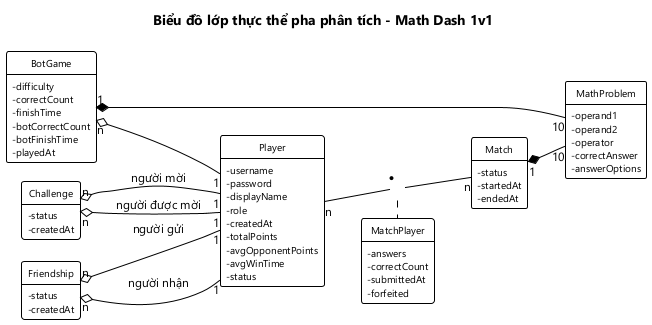
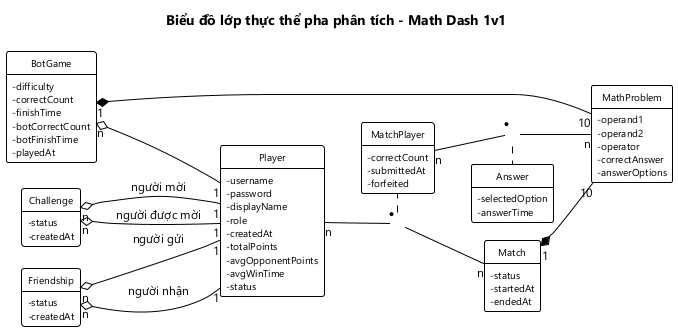
docs(M1-01,M1-02,M1-03): bản 7: giao diện chính 2 nút, giao diện chơi online, thực thể Answer, bảng tblAnswer

diff --git a/docs/chung/01-pham-vi-use-case.md b/docs/chung/01-pham-vi-use-case.md
@@ -11,11 +11,11 @@
 | 3 | Server | Máy chủ duy nhất của hệ thống. Server lưu toàn bộ thông tin tài khoản và trận đấu, sinh đề bài và làm trọng tài cho các trận đối kháng |
 | 4 | Câu hỏi | Một phép tính gồm 2 toán hạng và 1 toán tử (+, −, ×), kèm 4 phương án trả lời, trong đó có đúng 1 phương án đúng. Người chơi chọn 1 trong 4 phương án |
 | 5 | Đề bài | Danh sách N = 10 câu hỏi. Trong một trận đối kháng, server sinh một đề và gửi cùng đề đó cho cả 2 người chơi |
-| 6 | Danh sách người chơi online | Danh sách các người chơi đang mở ứng dụng và đã đăng nhập. Mỗi dòng có tên, tổng điểm, trạng thái |
+| 6 | Danh sách người chơi online | Danh sách các người chơi đang ở giao diện chơi online. Mỗi dòng có tên, tổng điểm, trạng thái. Người chơi rời giao diện chơi online thì không còn trong danh sách và không nhận được lời thách đấu |
 | 7 | Trạng thái | Rỗi: người chơi không chơi với ai. Bận: người chơi đang trong một trận đối kháng. Chỉ thách đấu được người đang rỗi |
 | 8 | Lời mời thách đấu | Lời mời người chơi gửi tới một người chơi khác đang rỗi bằng cách bấm vào tên người đó. Người được mời chọn Đồng ý hoặc Từ chối |
 | 9 | Trận đấu | Một ván đối kháng giữa 2 người chơi trên cùng một đề bài, thời gian tối đa 60 giây |
-| 10 | Bài làm | Các phương án người chơi đã chọn cho 10 câu hỏi. Bài làm được nộp bằng nút Nộp bài. Hết 60 giây mà chưa nộp thì hệ thống tự nộp, câu chưa chọn tính là sai |
+| 10 | Bài làm | Phương án người chơi đã chọn cho từng câu trong 10 câu hỏi, kèm thời gian làm câu: khoảng thời gian từ lúc câu hiện ra tới lúc người chơi chọn phương án. Người chơi làm lần lượt từng câu, chọn xong một câu thì sang câu sau; làm xong 10 câu thì nộp bài bằng nút Nộp bài. Hết 60 giây mà chưa nộp thì hệ thống tự nộp, câu chưa chọn là câu bỏ trống và tính là sai |
 | 11 | Thời gian làm bài | Khoảng thời gian từ lúc trận bắt đầu đến lúc server nhận được bài làm của người chơi |
 | 12 | Kết quả trận | Thắng, thua hoặc hòa, do server xác định:<br>- Người bỏ trận thua.<br>- Người đúng hết 10 câu thắng người có ít nhất 1 câu sai.<br>- Cả 2 đúng hết thì ai có thời gian làm bài ngắn hơn thắng; bằng nhau thì hòa.<br>- Cả 2 đều có ít nhất 1 câu sai thì hòa |
 | 13 | Điểm trận | Thắng được 1 điểm, hòa 0,5 điểm, thua 0 điểm |
@@ -42,11 +42,11 @@ Hệ thống gồm một server và nhiều client. Server lưu toàn bộ thôn
 Phạm vi:
 - Người chơi phải có tài khoản và đăng nhập trước khi dùng các chức năng khác.
 - **Chơi online:** thách đấu và đấu đối kháng.
-  - Sau khi đăng nhập, người chơi thấy danh sách người chơi đang online và thách đấu một người đang rỗi.
-  - Hai người làm cùng một đề do server sinh ra; server chấm bài và cộng điểm.
+  - Người chơi vào giao diện chơi online, thấy danh sách người chơi đang online và thách đấu một người đang rỗi. Người chơi chỉ online khi đang ở giao diện này.
+  - Hai người làm cùng một đề do server sinh ra, lần lượt từng câu; server chấm bài, lưu bài làm từng câu và cộng điểm.
   - Sau mỗi trận, hai người chọn chơi tiếp hoặc dừng.
 - **Chơi với máy:** người chơi chọn độ khó của máy rồi thi đấu theo cùng luật. Chức năng này chạy được khi không có mạng.
-- **Xem lịch sử đấu:** người chơi xem tỉ lệ thắng / hòa / thua và danh sách các trận chơi online mình đã đấu, xem lại đề và kết quả của từng trận, và xem bảng xếp hạng của mọi người chơi trong hệ thống.
+- **Xem lịch sử đấu:** người chơi xem tỉ lệ thắng / hòa / thua và danh sách các trận chơi online mình đã đấu, xem lại đề, kết quả và bài làm từng câu của 2 người trong từng trận, và xem bảng xếp hạng của mọi người chơi trong hệ thống.
 - **Quản lý bạn bè:** người chơi gửi lời mời kết bạn, đồng ý hoặc từ chối lời mời kết bạn, xem danh sách bạn bè kèm trạng thái online, hủy kết bạn.
 - **Quản lý thông tin người chơi:** quản trị viên xem danh sách người chơi, sửa tên hiển thị, đặt lại mật khẩu, xóa tài khoản người chơi.
 - Ngoài phạm vi:
@@ -69,14 +69,14 @@ Người chơi có thể:
 - **Đăng ký:** tạo tài khoản mới bằng tên đăng nhập, mật khẩu và tên hiển thị.
 - **Đăng nhập:** đăng nhập bằng tên đăng nhập và mật khẩu; lần sau mở ứng dụng không phải đăng nhập lại.
 - **Chơi online:**
-  - Xem danh sách người chơi online.
+  - Vào giao diện chơi online, xem danh sách người chơi online.
   - Thách đấu một người đang rỗi, hoặc đồng ý / từ chối lời thách đấu của người khác.
-  - Làm đề 10 câu trong tối đa 60 giây rồi nộp bài; được thoát giữa chừng nhưng bị xử thua.
+  - Làm lần lượt 10 câu, mỗi câu chọn 1 trong 4 phương án, trong tối đa 60 giây rồi nộp bài; được thoát giữa chừng nhưng bị xử thua.
   - Nhận kết quả và điểm trận, rồi chọn chơi tiếp hoặc dừng.
 - **Chơi với máy:** chọn độ khó của máy, làm đề 10 câu và nhận kết quả thắng / thua / hòa với máy.
 - **Xem lịch sử đấu:**
   - Xem tỉ lệ thắng / hòa / thua và danh sách các trận chơi online đã đấu.
-  - Xem chi tiết một trận: đối thủ, kết quả, số câu đúng và thời gian của 2 bên, đề 10 câu kèm đáp án đúng.
+  - Xem chi tiết một trận: đối thủ, kết quả, số câu đúng và thời gian của 2 bên, đề 10 câu kèm đáp án đúng, và ở từng câu, mỗi người đúng hay sai, đã chọn phương án nào, làm câu đó hết bao lâu.
   - Xem bảng xếp hạng: thứ hạng, tên, tổng điểm, trung bình điểm đối thủ, trung bình thời gian thắng của mọi người chơi.
 - **Quản lý bạn bè:** gửi lời mời kết bạn bằng tên đăng nhập, đồng ý hoặc từ chối lời mời kết bạn, xem danh sách bạn bè và ai đang online, hủy kết bạn.
 
@@ -98,9 +98,9 @@ Người chơi nhấn "Đăng ký" ở giao diện đăng nhập → Hệ thốn
 Người chơi mở ứng dụng → Hệ thống hiển thị giao diện đăng nhập gồm: ô tên đăng nhập, ô mật khẩu, nút Đăng nhập, nút Đăng ký → Người chơi nhập tên đăng nhập, mật khẩu và nhấn Đăng nhập → Hệ thống kiểm tra tài khoản → Hệ thống ghi nhớ phiên đăng nhập → Hiển thị giao diện chính.
 
 Giao diện chính gồm:
-- Dòng thông tin của mình: tên hiển thị, tổng điểm.
-- Danh sách người chơi online, mỗi dòng có tên, tổng điểm, trạng thái Rỗi / Bận.
-- Các nút Chơi với máy, Lịch sử đấu, Bạn bè, Đăng xuất.
+- Lời chào kèm tên hiển thị của mình.
+- Hai nút chọn chế độ chơi: Chơi với máy, Chơi online.
+- Nút Đăng xuất.
 
 Ngoại lệ:
 - Sai tên đăng nhập hoặc mật khẩu: Hệ thống thông báo "Sai tên đăng nhập hoặc mật khẩu".
@@ -109,19 +109,25 @@ Ngoại lệ:
 
 **Chức năng "Chơi online":**
 
-Người chơi đang ở giao diện chính → Danh sách người chơi online tự cập nhật khi có người vào, người thoát, hoặc người đổi trạng thái → Người chơi bấm vào tên một người đang rỗi → Hệ thống gửi lời mời tới máy của người đó → Hiển thị "Đang chờ <tên> trả lời...".
+Người chơi nhấn "Chơi online" ở giao diện chính → Hệ thống đưa người chơi vào danh sách người chơi online → Hiển thị giao diện chơi online gồm:
+- Tên hiển thị và tổng điểm của mình.
+- Danh sách người chơi online, mỗi dòng có tên, tổng điểm, trạng thái Rỗi / Bận.
+- Các biểu tượng Bạn bè, Lịch sử đấu, Bảng xếp hạng ở góc trên.
+
+→ Danh sách người chơi online tự cập nhật khi có người vào hoặc rời giao diện chơi online, hoặc có người đổi trạng thái → Người chơi bấm vào tên một người đang rỗi → Hệ thống gửi lời mời tới máy của người đó → Hiển thị "Đang chờ <tên> trả lời...".
 
 Trên máy người được mời: hiện hộp thoại "<tên> (<tổng điểm> điểm) thách đấu bạn" với 2 nút Đồng ý, Từ chối.
 - Đồng ý: Server sinh đề 10 câu, tạo trận, chuyển cả 2 người sang trạng thái bận và gửi đề cho cả 2 máy → Cả 2 máy chuyển sang giao diện thi đấu.
 - Từ chối: Máy người mời thông báo "<tên> đã từ chối lời mời".
 
-Thi đấu: Giao diện thi đấu gồm:
+Thi đấu: Giao diện thi đấu hiện mỗi lần một câu, gồm:
 - Ô thời gian đếm ngược 60 giây.
-- Dòng trạng thái đối thủ: "Đối thủ đang làm bài" / "Đối thủ đã nộp bài".
-- Danh sách 10 câu hỏi, mỗi câu có 4 phương án để chọn.
-- Nút Nộp bài, nút Thoát.
+- Dòng trạng thái đối thủ: "<tên> đang làm bài" / "<tên> đã nộp bài".
+- Câu đang làm: số thứ tự câu ("Câu 1/10") và phép tính.
+- 4 ô phương án A, B, C, D.
+- Nút Thoát; nút Nộp bài chỉ hiện khi đã làm xong 10 câu.
 
-→ Người chơi chọn đáp án cho các câu, có thể đổi lựa chọn trước khi nộp → Nhấn Nộp bài → Server ghi nhận thời gian làm bài và chấm bài → Màn hình hiện "Đã nộp bài, đang chờ đối thủ..." → Khi cả 2 đã nộp bài, server xác định kết quả, cộng điểm trận vào tổng điểm của cả 2 người và báo kết quả về cả 2 máy.
+→ Người chơi bấm một ô phương án → Hệ thống ghi phương án đã chọn và thời gian làm câu, chưa báo đúng hay sai → Chuyển sang câu tiếp theo → Lặp lại cho đến câu thứ 10 → Hệ thống báo "Đã làm xong 10 câu" và hiện nút Nộp bài → Người chơi nhấn Nộp bài → Server ghi nhận thời gian làm bài, chấm bài và lưu bài làm từng câu → Màn hình hiện "Đã nộp bài, đang chờ đối thủ..." → Khi cả 2 đã nộp bài, server xác định kết quả, cộng điểm trận vào tổng điểm của cả 2 người và báo kết quả về cả 2 máy.
 
 Giao diện kết quả gồm:
 - Dòng THẮNG / THUA / HÒA.
@@ -131,34 +137,41 @@ Giao diện kết quả gồm:
 
 Sau khi trả lời:
 - Cả 2 chọn Chơi tiếp: Server sinh đề mới → Cả 2 vào trận tiếp theo.
-- Một người chọn Dừng: Cả 2 về giao diện chính, trạng thái trở lại rỗi; máy người còn lại thông báo "Đối thủ đã dừng chơi".
+- Một người chọn Dừng: Cả 2 về giao diện chơi online, trạng thái trở lại rỗi; máy người còn lại thông báo "Đối thủ đã dừng chơi".
 
 Ngoại lệ:
 - Bấm vào người đang bận: Hệ thống thông báo "<tên> đang bận".
 - Người được mời vừa bận hoặc vừa thoát trước khi đồng ý: Hệ thống thông báo "Không bắt đầu được trận đấu".
-- Hết 60 giây mà chưa nộp bài: Hệ thống tự nộp bài, câu chưa chọn tính là sai.
-- Nhấn Thoát khi đang thi đấu: Hệ thống hỏi "Thoát sẽ bị xử thua?" → Đồng ý: người chơi bị xử thua, cả 2 về giao diện chính; máy đối thủ thông báo "Đối thủ đã thoát, bạn thắng".
+- Hết 60 giây mà chưa nộp bài: Hệ thống báo "Hết giờ" và tự nộp bài, câu chưa làm là câu bỏ trống và tính là sai.
+- Nhấn Thoát khi đang thi đấu: Hệ thống hỏi "Thoát sẽ bị xử thua?" với 2 nút Ở lại, Thoát → Thoát: người chơi bị xử thua và về giao diện chơi online; máy đối thủ thông báo "Đối thủ đã thoát, bạn thắng".
 - Đối thủ mất kết nối khi đang thi đấu: Đối thủ bị xử thua như khi nhấn Thoát.
 
 **Chức năng "Xem lịch sử đấu":**
 
-Người chơi nhấn "Lịch sử đấu" ở giao diện chính → Hệ thống lấy các trận đối kháng đã kết thúc của người chơi → Hiển thị giao diện lịch sử đấu gồm 2 thẻ Trận của tôi, Bảng xếp hạng; thẻ Trận của tôi được mở sẵn.
+Người chơi nhấn biểu tượng "Lịch sử đấu" ở giao diện chơi online → Hệ thống lấy các trận đối kháng đã kết thúc của người chơi → Hiển thị giao diện lịch sử đấu gồm 2 thẻ Trận của tôi, Bảng xếp hạng; thẻ Trận của tôi được mở sẵn.
 
 Thẻ Trận của tôi gồm:
 - Biểu đồ tròn tỉ lệ thắng / hòa / thua, giữa biểu đồ ghi tỉ lệ thắng; bên cạnh ghi số trận thắng, hòa, thua và tổng số trận.
 - Danh sách trận, mới nhất đứng đầu. Mỗi dòng có tên đối thủ, THẮNG / HÒA / THUA, điểm trận, số câu đúng của 2 bên, thời điểm kết thúc.
 
-→ Người chơi bấm vào một trận → Hệ thống lấy đề và kết quả của trận → Hiển thị giao diện chi tiết trận gồm: tên đối thủ, THẮNG / HÒA / THUA, điểm trận, số câu đúng và thời gian làm bài của mình và của đối thủ, danh sách 10 câu hỏi kèm đáp án đúng → Người chơi nhấn Back để về giao diện lịch sử đấu.
+→ Người chơi bấm vào một trận → Hệ thống lấy đề, kết quả và bài làm từng câu của 2 người trong trận → Hiển thị giao diện chi tiết trận gồm:
+- Tên đối thủ, THẮNG / HÒA / THUA, điểm trận.
+- Số câu đúng và thời gian làm bài của mình và của đối thủ.
+- Danh sách 10 câu. Mỗi câu có phép tính kèm đáp án đúng, và với mỗi người: đúng hay sai, phương án đã chọn, thời gian làm câu.
 
-→ Người chơi chọn thẻ Bảng xếp hạng → Hệ thống lấy thông tin mọi người chơi và các trận đã kết thúc → Sắp xếp theo 3 tiêu chí → Hiển thị bảng xếp hạng: mỗi dòng gồm hạng, tên, tổng điểm, trung bình điểm đối thủ, trung bình thời gian thắng. Dòng của chính người chơi được làm nổi bật → Người chơi nhấn Back để về giao diện chính.
+→ Người chơi nhấn Back để về giao diện lịch sử đấu.
 
+→ Người chơi chọn thẻ Bảng xếp hạng → Hệ thống lấy thông tin mọi người chơi và các trận đã kết thúc → Sắp xếp theo 3 tiêu chí → Hiển thị bảng xếp hạng: mỗi dòng gồm hạng, tên, tổng điểm, trung bình điểm đối thủ, trung bình thời gian thắng. Dòng của chính người chơi được làm nổi bật → Người chơi nhấn Back để về giao diện chơi online.
+
+- Người chơi nhấn biểu tượng "Bảng xếp hạng" ở giao diện chơi online: giao diện lịch sử đấu mở sẵn thẻ Bảng xếp hạng.
 - Người chơi chưa đấu trận nào: biểu đồ để trống, danh sách hiện "Bạn chưa đấu trận nào".
 - Trận có người bỏ trận: dòng của trận ghi thêm "Bỏ trận" cạnh kết quả.
+- Câu người chơi chưa làm: ô bài làm của câu đó ghi "Bỏ trống". Người bỏ trận khi chưa nộp bài thì không có bài làm, các ô bài làm của người đó ghi "—".
 - Người chơi chưa thắng trận nào: cột trung bình thời gian thắng trên bảng xếp hạng hiện "—", và người đó đứng sau những người cùng 2 tiêu chí đầu nhưng đã có trận thắng.
 
 **Chức năng "Quản lý bạn bè":**
 
-Người chơi nhấn "Bạn bè" ở giao diện chính → Hệ thống lấy các lời mời kết bạn và danh sách bạn bè của người chơi → Hiển thị giao diện bạn bè gồm:
+Người chơi nhấn biểu tượng "Bạn bè" ở giao diện chơi online → Hệ thống lấy các lời mời kết bạn và danh sách bạn bè của người chơi → Hiển thị giao diện bạn bè gồm:
 - Ô nhập tên đăng nhập và nút Kết bạn.
 - Danh sách lời mời kết bạn đã nhận, mỗi dòng có tên người gửi, nút Đồng ý, nút Từ chối.
 - Danh sách bạn bè, mỗi dòng có tên, tổng điểm, trạng thái Online / Offline, nút Hủy kết bạn. Lời mời mình đã gửi mà chưa được trả lời nằm cuối danh sách với dòng "Đang chờ trả lời".
@@ -168,7 +181,7 @@ Người chơi nhấn "Bạn bè" ở giao diện chính → Hệ thống lấy 
 → Người chơi nhấn Đồng ý ở một lời mời đã nhận → Hệ thống ghi nhận hai người là bạn bè → Người gửi chuyển sang danh sách bạn bè.
 
 - Nhấn Từ chối: Hệ thống xóa lời mời.
-- Nhấn Hủy kết bạn: Hệ thống hỏi xác nhận → Đồng ý: Hệ thống xóa quan hệ bạn bè.
+- Nhấn Hủy kết bạn: Hệ thống hỏi "Hủy kết bạn với <tên>?" với 2 nút Không, Hủy kết bạn → Hủy kết bạn: Hệ thống xóa quan hệ bạn bè.
 - Tên đăng nhập không tồn tại: Hệ thống thông báo "Không tìm thấy người chơi".
 - Nhập tên đăng nhập của chính mình: Hệ thống thông báo "Không thể kết bạn với chính mình".
 - Hai người đã là bạn bè hoặc đã có lời mời giữa hai người: Hệ thống thông báo "Đã có lời mời hoặc đã là bạn bè".
@@ -196,6 +209,7 @@ Quản trị viên đăng nhập → Hệ thống hiển thị giao diện quả
 - **Lời mời thách đấu:** người mời, người được mời, trạng thái (đang chờ, đã đồng ý, đã từ chối), thời điểm gửi.
 - **Trận đấu:** đề bài gồm 10 câu hỏi, thời điểm bắt đầu, thời điểm kết thúc, trạng thái (đang đấu, đã xong), 2 người chơi tham gia.
 - **Người chơi trong trận:** người chơi, bài làm, số câu đúng, thời điểm nộp bài, đã bỏ trận hay chưa.
+- **Bài làm một câu:** câu hỏi, phương án đã chọn, thời gian làm câu.
 - **Ván đấu với máy:** người chơi, độ khó của máy, đề bài, số câu đúng và thời gian làm bài của người chơi, số câu đúng và thời gian làm bài của máy, thời điểm chơi.
 - **Quan hệ bạn bè:** người gửi lời mời, người nhận lời mời, trạng thái (đang chờ, đã là bạn bè), thời điểm gửi.
 
@@ -205,9 +219,11 @@ Quản trị viên đăng nhập → Hệ thống hiển thị giao diện quả
 - Một lời mời được đồng ý thì sinh ra trận đầu tiên giữa 2 người; các trận chơi tiếp sau đó không cần lời mời mới.
 - Một người chơi tham gia nhiều trận đấu; một trận đấu có đúng 2 người chơi (n-n). Quan hệ này được thể hiện qua đối tượng trung gian "người chơi trong trận", nơi giữ bài làm, số câu đúng, thời điểm nộp bài và trạng thái bỏ trận của từng người.
 - Một trận đấu có đúng 10 câu hỏi; mỗi câu hỏi thuộc về đúng một trận (1-n). Hai người trong trận làm chung đề này.
+- Mỗi người chơi trong trận làm 10 câu của đề, mỗi câu hỏi được 2 người trong trận cùng làm (n-n). Quan hệ này được thể hiện qua đối tượng "bài làm một câu", giữ phương án đã chọn và thời gian làm câu của một người cho một câu.
 - Một người chơi chơi nhiều ván với máy; mỗi ván thuộc về một người chơi (1-n). Mỗi ván có 10 câu hỏi do ứng dụng sinh ra (1-n).
 - Một người chơi kết bạn với nhiều người chơi khác (n-n giữa người chơi với người chơi). Quan hệ này được thể hiện qua đối tượng trung gian "quan hệ bạn bè", gồm đúng một người gửi và một người nhận, kèm trạng thái và thời điểm gửi.
 - Các thông tin dẫn xuất, không lưu riêng:
+  - Đúng hay sai của một câu trong bài làm: so phương án đã chọn với đáp án đúng của câu đó.
   - Kết quả trận và điểm trận của một người chơi: suy ra từ số câu đúng, thời gian làm bài và trạng thái bỏ trận của 2 người.
   - Tổng điểm: tổng điểm trận của người đó qua các trận đã kết thúc.
   - Các tiêu chí của bảng xếp hạng: tính từ các trận đã kết thúc.
@@ -246,8 +262,8 @@ Quản trị viên đăng nhập → Hệ thống hiển thị giao diện quả
 Mô tả các use case:
 1. "Đăng ký" (UC01): cho phép người chơi tạo tài khoản mới.
 2. "Đăng nhập" (UC02): cho phép người chơi đăng nhập để dùng các chức năng khác; ứng dụng ghi nhớ phiên đăng nhập.
-3. "Chơi online" (UC03): cho phép người chơi xem danh sách người chơi online, thách đấu hoặc nhận lời thách đấu, làm cùng một đề với đối thủ, nhận kết quả do server xác định và chọn chơi tiếp.
-4. "Xem lịch sử đấu" (UC04): cho phép người chơi xem tỉ lệ thắng / hòa / thua, danh sách và chi tiết các trận chơi online mình đã đấu, và xem bảng xếp hạng mọi người chơi theo 3 tiêu chí.
+3. "Chơi online" (UC03): cho phép người chơi vào giao diện chơi online để xem danh sách người chơi online, thách đấu hoặc nhận lời thách đấu, làm cùng một đề với đối thủ, nhận kết quả do server xác định và chọn chơi tiếp.
+4. "Xem lịch sử đấu" (UC04): cho phép người chơi xem tỉ lệ thắng / hòa / thua, danh sách và chi tiết các trận chơi online mình đã đấu kèm bài làm từng câu của 2 người, và xem bảng xếp hạng mọi người chơi theo 3 tiêu chí.
 5. "Chơi với máy" (UC05): cho phép người chơi chọn độ khó của máy và thi đấu với máy theo cùng luật, kể cả khi không có mạng.
 6. "Quản lý thông tin người chơi" (UC06): cho phép quản trị viên xem danh sách người chơi, sửa tên hiển thị, đặt lại mật khẩu và xóa tài khoản người chơi.
 7. "Quản lý bạn bè" (UC07): cho phép người chơi gửi, đồng ý, từ chối lời mời kết bạn, xem danh sách bạn bè và hủy kết bạn.
